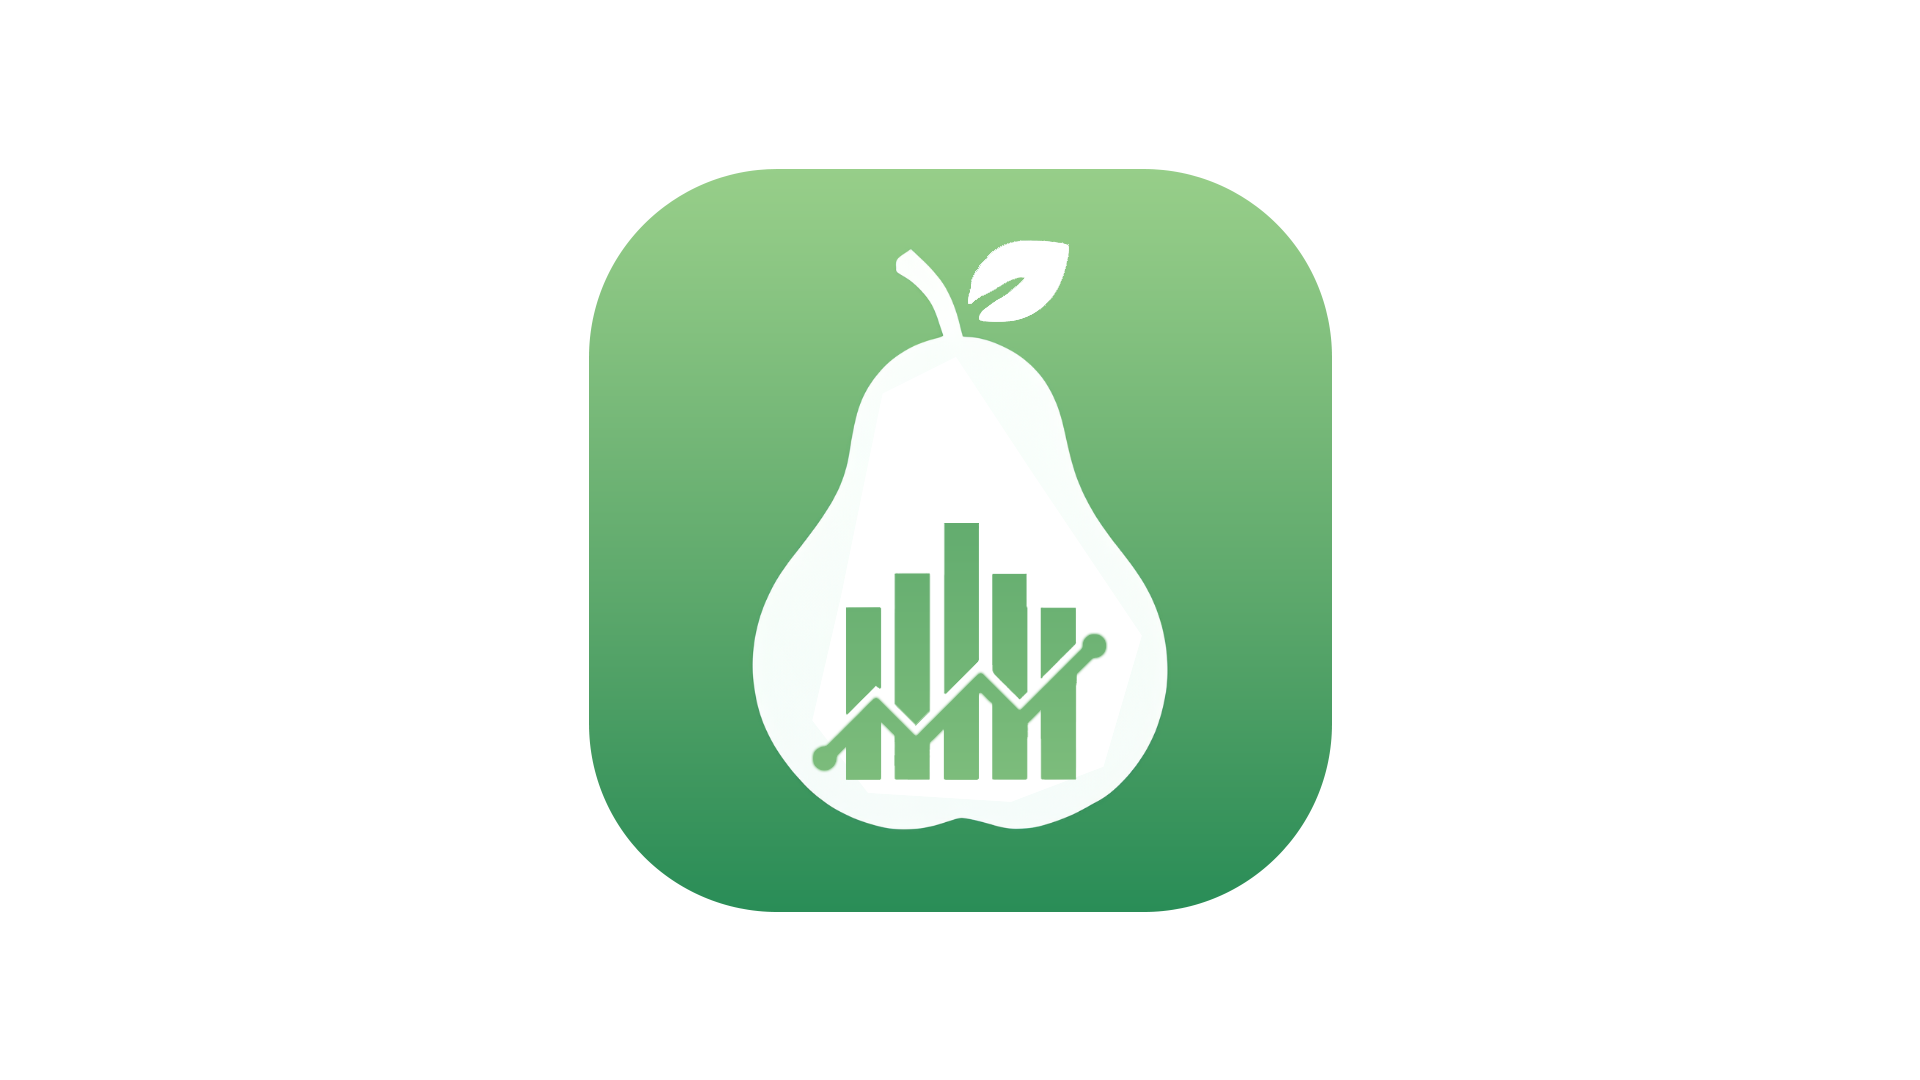
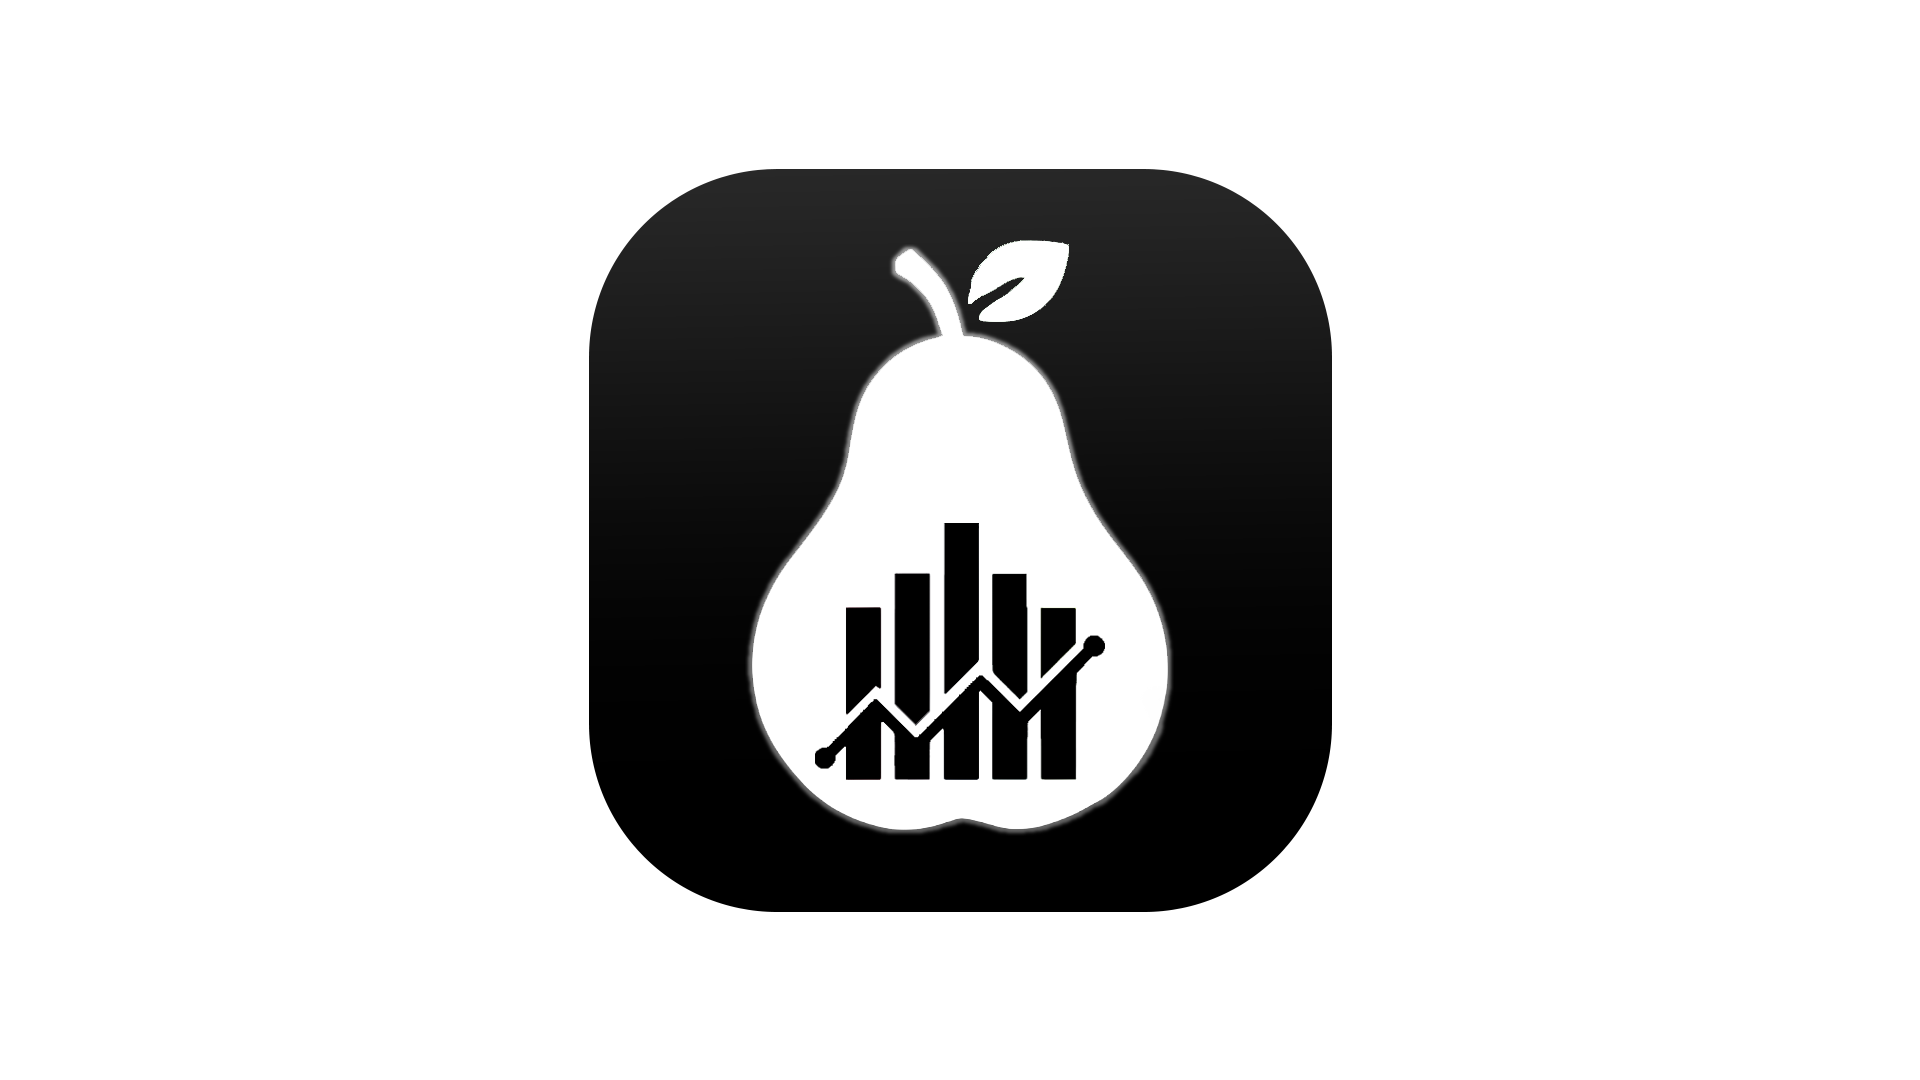
little changes

Changed region(s): [[0.2812, 0.1528, 0.7188, 0.8556]]

diff --git a/app/(auth)/login.tsx b/app/(auth)/login.tsx
@@ -1,5 +1,16 @@
 import React, { useState } from "react";
-import { View, Text, TextInput, TouchableOpacity, Image } from "react-native";
+import {
+  View,
+  Text,
+  TextInput,
+  TouchableOpacity,
+  Image,
+  KeyboardAvoidingView,
+  Platform,
+  ScrollView,
+  TouchableWithoutFeedback,
+  Keyboard,
+} from "react-native";
 import { useRouter } from "expo-router";
 import { BlurView } from "expo-blur";
 import { BASE_URL } from "@/constants/constants";
@@ -29,11 +40,7 @@ export default function LoginScreen() {
       if (!response.ok) {
         throw new Error(data.error || "Failed to login. Please try again.");
       }
-
-      // Store the token
       await AsyncStorage.setItem("token", data.token);
-
-      // Navigate to Home
       router.push("/home");
     } catch (error: any) {
       setErrorMessage(error.message);
@@ -45,67 +52,88 @@ export default function LoginScreen() {
       <Image
         source={require("@/assets/images/wall5.jpg")}
         className="absolute inset-0 w-full h-full"
-        resizeMode="center"
+        resizeMode="cover"
       />
       <View className="mt-24">
         <Text className="text-6xl font-bold text-black text-center mb-2">
           Login
         </Text>
       </View>
-      <View className="flex-1 justify-end">
-        <BlurView
-          intensity={60}
-          tint="light"
-          className="w-full p-5 bg-white/40 h-3/5 border-t border-gray-800"
-        >
-          {errorMessage ? (
-            <Text className="text-red-500 mb-2 text-center">
-              {errorMessage}
-            </Text>
-          ) : null}
-          <View className="w-full my-4 relative">
-            <Text className="text-xl font-semibold text-black text-center mb-8">
-              Enter your login information
-            </Text>
-            <TextInput
-              className="border border-gray-700 rounded-lg px-4 py-3 text-black bg-white/80"
-              placeholder="Email"
-              placeholderTextColor="#999"
-              onChangeText={setEmail}
-              autoCapitalize="none"
-              value={email}
-            />
-          </View>
-          <View className="w-full mb-4 relative">
-            <TextInput
-              className="border border-gray-700 rounded-lg px-4 py-3 text-black bg-white/80"
-              placeholder="Password"
-              placeholderTextColor="#999"
-              secureTextEntry
-              onChangeText={setPassword}
-              value={password}
-            />
-            <TouchableOpacity className="absolute right-0 bottom-[-20px]">
-              <Text className="text-gray-800 text-sm underline">
-                Forgot your password?
-              </Text>
-            </TouchableOpacity>
-          </View>
-          <TouchableOpacity
-            className="border border-black rounded-lg py-3 mt-16 items-center w-full bg-white/60"
-            onPress={handleLogin}
+      <KeyboardAvoidingView
+        className="flex-1"
+        behavior={Platform.OS === "ios" ? "padding" : "height"}
+        keyboardVerticalOffset={Platform.OS === "ios" ? 0 : 20}
+      >
+        <TouchableWithoutFeedback onPress={Keyboard.dismiss}>
+          <ScrollView
+            contentContainerClassName="flex-grow justify-center px-4"
+            keyboardShouldPersistTaps="handled"
+            className="flex-1"
           >
-            <Text className="text-black text-base font-bold">Log in</Text>
-          </TouchableOpacity>
-          <View className="items-center mt-6">
-            <TouchableOpacity onPress={() => router.push("/(auth)/register")}>
-              <Text className="text-gray-800 underline text-base">
-                New here? Join now
-              </Text>
-            </TouchableOpacity>
-          </View>
-        </BlurView>
-      </View>
+            <View className="w-full max-w-md mx-auto">
+              <BlurView
+                intensity={60}
+                tint="light"
+                className="p-6 bg-white/40 rounded-lg border border-gray-800"
+              >
+                <Text className="text-xl font-semibold text-black text-center mb-8">
+                  Enter your login information
+                </Text>
+                {errorMessage ? (
+                  <Text className="text-red-500 mb-4 text-center">
+                    {errorMessage}
+                  </Text>
+                ) : null}
+
+                <View className="mb-4">
+                  <TextInput
+                    className="border border-gray-700 rounded-lg px-4 py-3 text-black bg-white/80"
+                    placeholder="Email"
+                    placeholderTextColor="#999"
+                    onChangeText={setEmail}
+                    autoCapitalize="none"
+                    value={email}
+                    keyboardType="email-address"
+                  />
+                </View>
+
+                <View className="mb-4 relative">
+                  <TextInput
+                    className="border border-gray-700 rounded-lg px-4 py-3 text-black bg-white/80"
+                    placeholder="Password"
+                    placeholderTextColor="#999"
+                    secureTextEntry
+                    onChangeText={setPassword}
+                    value={password}
+                  />
+                  <TouchableOpacity className="absolute right-4 top-3">
+                    <Text className="text-gray-800 text-sm underline">
+                      Forgot your password?
+                    </Text>
+                  </TouchableOpacity>
+                </View>
+
+                <TouchableOpacity
+                  className="border border-black rounded-lg py-3 mt-4 items-center bg-white/60"
+                  onPress={handleLogin}
+                >
+                  <Text className="text-black text-base font-bold">Log in</Text>
+                </TouchableOpacity>
+
+                <View className="items-center mt-6">
+                  <TouchableOpacity
+                    onPress={() => router.push("/(auth)/register")}
+                  >
+                    <Text className="text-gray-800 underline text-base">
+                      New here? Join now
+                    </Text>
+                  </TouchableOpacity>
+                </View>
+              </BlurView>
+            </View>
+          </ScrollView>
+        </TouchableWithoutFeedback>
+      </KeyboardAvoidingView>
     </View>
   );
 }

diff --git a/app/(tabs)/_layout.tsx b/app/(tabs)/_layout.tsx
@@ -1,8 +1,17 @@
 import React from "react";
-import { View, Text, ColorValue } from "react-native";
+import {
+  View,
+  Text,
+  ColorValue,
+  TouchableOpacity,
+  StyleSheet,
+  Alert,
+} from "react-native";
 import { Tabs } from "expo-router";
 import { HomeIcon, MagnifyingGlassIcon } from "react-native-heroicons/outline";
 import { History, User } from "lucide-react-native";
+import * as ImagePicker from "expo-image-picker";
+import { CameraIcon } from "react-native-heroicons/outline";
 
 type IconComponent = React.FC<{
   size?: string | number;
@@ -39,6 +48,43 @@ const tabs: Tab[] = [
 ];
 
 const TabsLayout: React.FC = () => {
+  const openCamera = async () => {
+    try {
+      // Request camera permissions
+      const { status } = await ImagePicker.requestCameraPermissionsAsync();
+      if (status !== "granted") {
+        Alert.alert(
+          "Permissions Required",
+          "Sorry, we need camera permissions to make this work!"
+        );
+        return;
+      }
+
+      // Launch the camera
+      const result = await ImagePicker.launchCameraAsync({
+        mediaTypes: ImagePicker.MediaTypeOptions.Images,
+        allowsEditing: true,
+        aspect: [4, 3],
+        quality: 1,
+      });
+
+      // Check if the operation was canceled
+      if (result.canceled) {
+        console.log("User canceled the camera");
+        return;
+      }
+
+      // Handle the captured image
+      if (result.assets && result.assets.length > 0) {
+        const imageUri = result.assets[0].uri;
+        console.log("Captured image URI:", imageUri);
+        // You can navigate to a new screen or handle the image as needed
+      }
+    } catch (error) {
+      console.error("Error opening camera:", error);
+    }
+  };
+
   return (
     <View className="flex-1 w-full p-1 bg-lightGreen">
       <Tabs
@@ -58,6 +104,9 @@ const TabsLayout: React.FC = () => {
             shadowOpacity: 0.1,
             shadowRadius: 5,
             elevation: 5,
+            flexDirection: "row",
+            justifyContent: "space-between",
+            alignItems: "center",
           },
         }}
       >
@@ -88,8 +137,42 @@ const TabsLayout: React.FC = () => {
           />
         ))}
       </Tabs>
+
+      {/* Central Camera Button */}
+      <View style={styles.cameraButtonContainer}>
+        <TouchableOpacity
+          style={styles.cameraButton}
+          onPress={openCamera}
+          activeOpacity={0.7}
+        >
+          <CameraIcon size={24} color="#fff" />
+        </TouchableOpacity>
+      </View>
     </View>
   );
 };
+
+const styles = StyleSheet.create({
+  cameraButtonContainer: {
+    position: "absolute",
+    bottom: 16 + 30, // Adjust as per tab bar height
+    left: "50%",
+    transform: [{ translateX: -30 }], // Half of button width (60 / 2)
+    zIndex: 10,
+  },
+  cameraButton: {
+    width: 60,
+    height: 60,
+    borderRadius: 30,
+    backgroundColor: "#8cd8be",
+    justifyContent: "center",
+    alignItems: "center",
+    elevation: 5,
+    shadowColor: "#000",
+    shadowOffset: { width: 0, height: 4 },
+    shadowOpacity: 0.3,
+    shadowRadius: 5,
+  },
+});
 
 export default TabsLayout;

diff --git a/app/index.tsx b/app/index.tsx
@@ -8,10 +8,13 @@ export default function App() {
   return (
     <SafeAreaView className="flex-1 bg-white">
       <ScrollView contentContainerStyle={{ flexGrow: 1 }} className="px-5">
-        <Text className="text-4xl font-bold text-hardGreen text-center mb-6">
-          FoodSmart
-        </Text>
-
+        <View className="flex items-center justify-center mb-6 px-4">
+          <Image
+            source={require("@/assets/images/FoodSmart.png")}
+            className="w-full h-34"
+            resizeMode="contain"
+          />
+        </View>
         <View className="flex items-center justify-center mb-6">
           <Image
             source={require("@/assets/images/logo.png")}
@@ -19,21 +22,21 @@ export default function App() {
             resizeMode="contain"
           />
         </View>
-
-        <Text className="text-lg text-hardGreen text-center mb-8">
+        <Text className="text-lg text-black text-center mb-8">
           “Discover the nutrition behind your food in a snap!”
         </Text>
-
         <View className="flex items-center">
           <LinearGradient
-            colors={["#A2D38C", "#4E8F54"]}
+            colors={["#AAAAAA", "#000000"]}
             style={{ borderRadius: 12, marginTop: 16 }}
           >
             <TouchableOpacity
               onPress={() => router.push("/(auth)/login")}
               className="items-center py-4 px-8 rounded-lg shadow-lg"
             >
-              <Text className="text-white text-lg font-bold">Get Started</Text>
+              <Text className="text-zinc-800 text-lg font-bold">
+                Get Started
+              </Text>
             </TouchableOpacity>
           </LinearGradient>
         </View>
